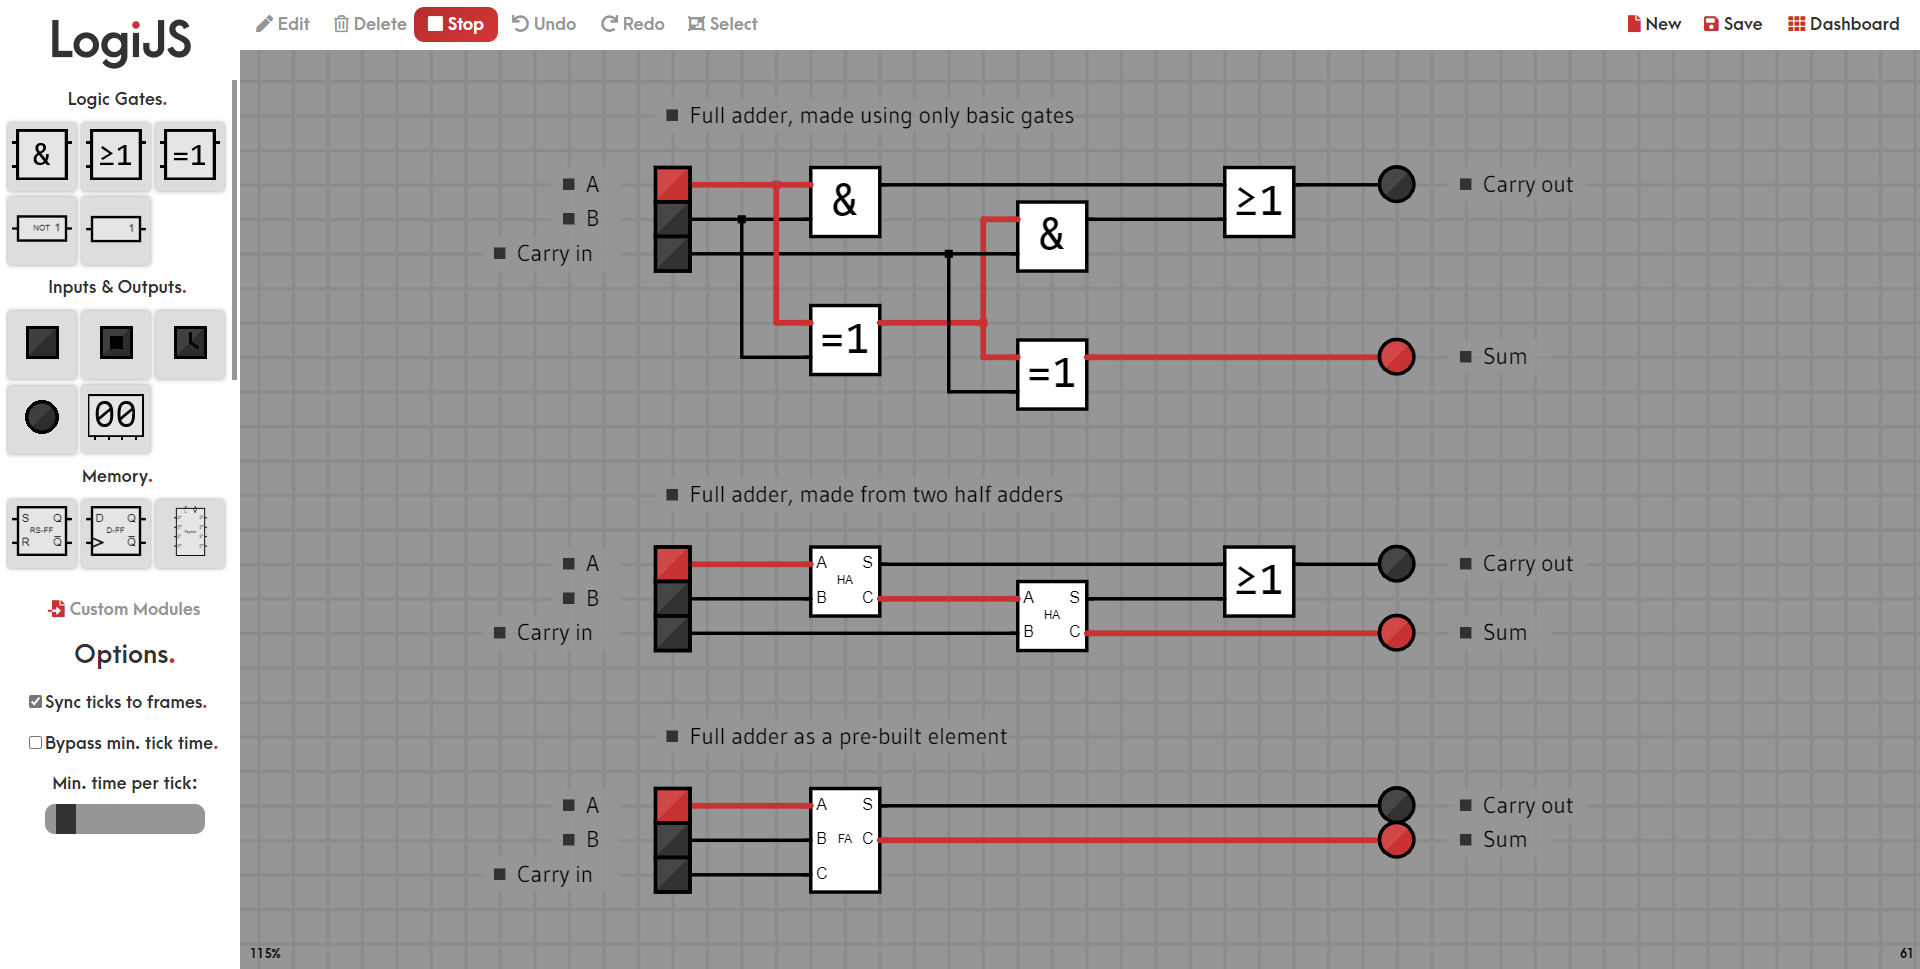
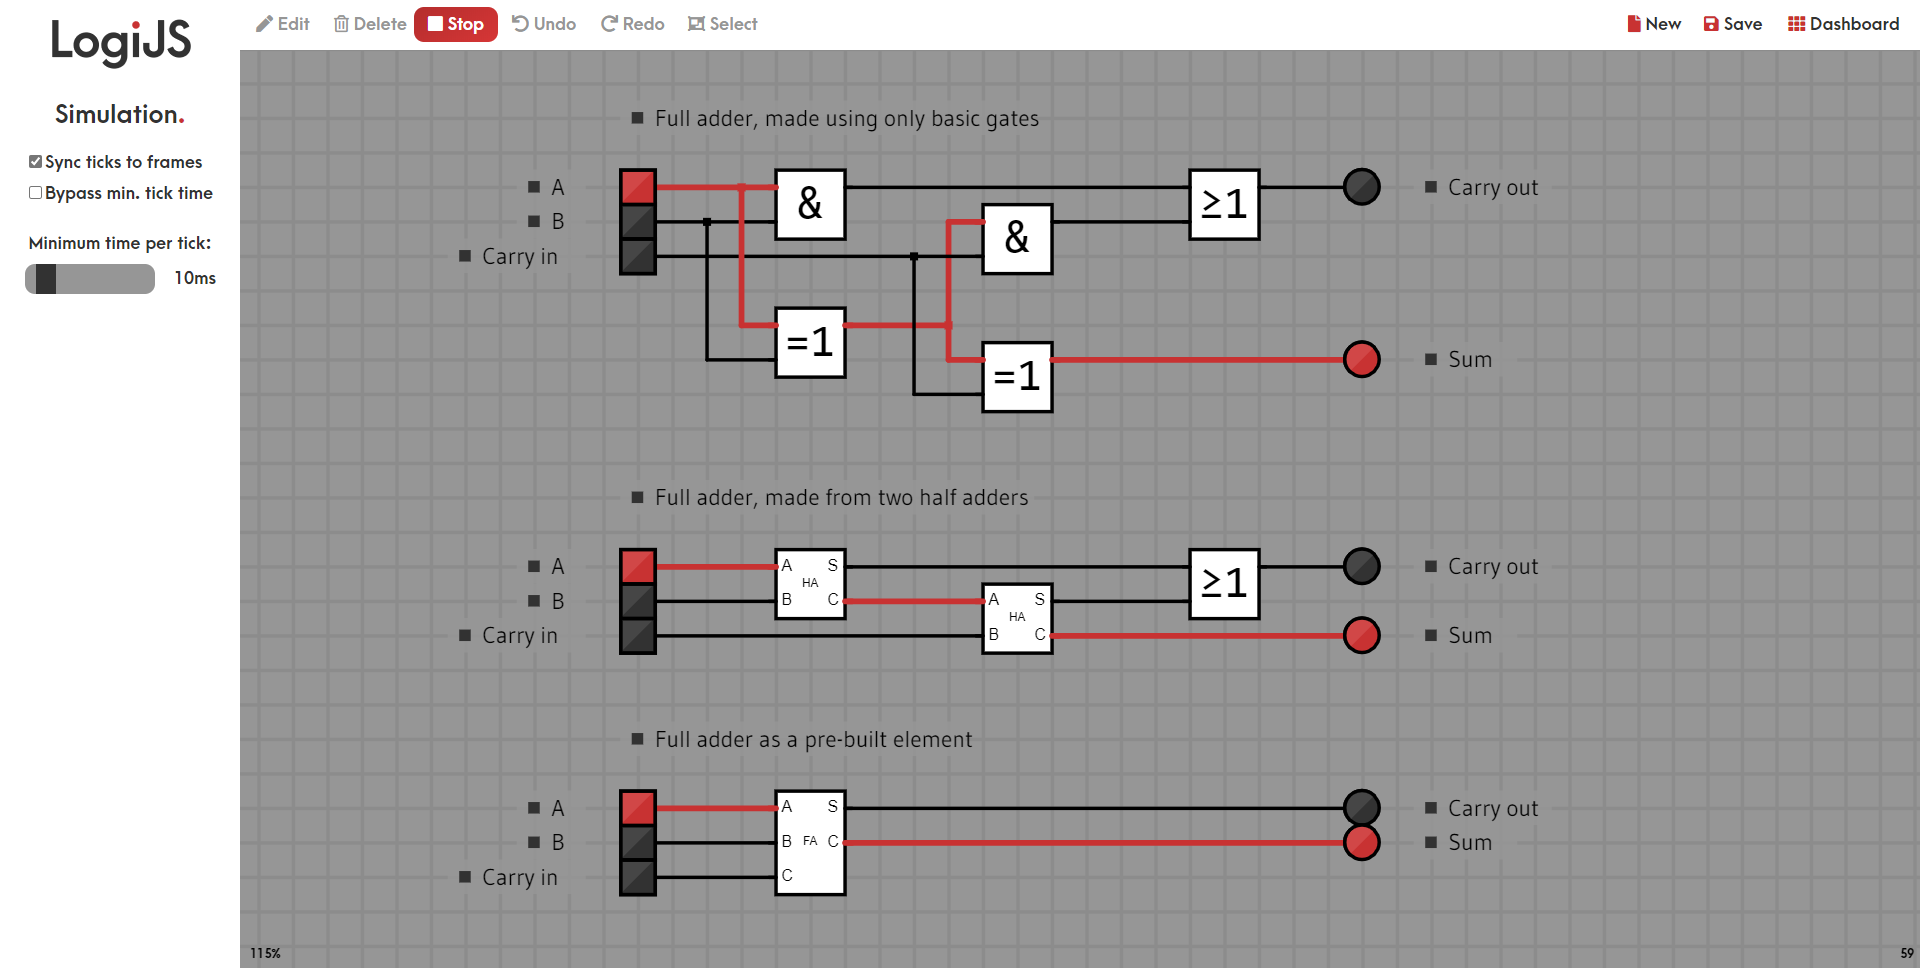
Simulation menu overhaul

diff --git a/javascripts/DOMdefinitions.js b/javascripts/DOMdefinitions.js
@@ -550,6 +550,14 @@ function createCustomImportButton() {
 }
 
 function createElementOptions() {
+    // Adds text 'Simulation'
+    labelSimulation = createP('Simulation<span style="color: #c83232">.</span>');
+    labelSimulation.elt.className = 'label simLabel';
+    labelSimulation.elt.style.fontSize = '25px';
+    labelSimulation.style('text-align', 'center');
+    labelSimulation.parent(leftSideContainer);
+    labelSimulation.hide();
+
     // Adds text 'Options'
     labelOptions = createP('Options<span style="color: #c83232">.</span>');
     labelOptions.elt.className = 'label';
@@ -688,22 +696,27 @@ function createElementOptions() {
     });
 
     sfcheckbox = createCheckbox('Sync ticks to frames', true);
-    document.getElementsByTagName('label')[0].innerHTML = 'Sync ticks to frames<span style="color: #c83232">.</span>';
+    //document.getElementsByTagName('label')[0].innerHTML = 'Sync ticks to frames<span style="color: #c83232">.</span>';
     sfcheckbox.hide();
     sfcheckbox.changed(function () {
         syncFramerate = sfcheckbox.checked();
         if (!sfcheckbox.checked() && simRunning) {
             updater = setInterval(updateTick, 1);
-            tickTimeLabel.hide();
-            tickTimeSlider.hide();
-            bpTickTimeCB.hide();
+            tickTimeLabel.elt.className = 'label disabledLabel';
+            tickTimeMsLabel.elt.className = 'label msLabel disabledLabel';
+            tickTimeSlider.elt.disabled = true;
+            document.getElementsByClassName('tickTimeCB')[0].disabled = true;
+            document.getElementsByClassName('tickTimeCB')[1].className = 'tickTimeCB disabledLabel';
         } else {
             clearInterval(updater);
             if (tickTime > 0) {
-                tickTimeLabel.show();
-                tickTimeSlider.show();
+                tickTimeLabel.elt.className = 'label';
+                tickTimeMsLabel.elt.className = 'label msLabel';
+                tickTimeSlider.elt.disabled = false;
             }
             bpTickTimeCB.show();
+            document.getElementsByClassName('tickTimeCB')[0].disabled = false;
+            document.getElementsByClassName('tickTimeCB')[1].className = 'tickTimeCB';
         }
     });
     sfcheckbox.elt.className = 'checkbox';
@@ -714,20 +727,25 @@ function createElementOptions() {
     sfcheckbox.mouseOut(function () {
         setHelpText('');
     });
-    
+
     bpTickTimeCB = createCheckbox('Bypass min. tick time', true);
-    document.getElementsByTagName('label')[1].innerHTML = 'Bypass min. tick time<span style="color: #c83232">.</span>';
+    //document.getElementsByTagName('label')[1].innerHTML = 'Bypass min. tick time<span style="color: #c83232">.</span>';
+    document.getElementsByTagName('input')[1].className = 'tickTimeCB';
+    document.getElementsByTagName('label')[1].className = 'tickTimeCB';
     bpTickTimeCB.hide();
     bpTickTimeCB.checked(false);
     bpTickTimeCB.changed(function () {
         if (bpTickTimeCB.checked()) {
             tickTime = 0;
-            tickTimeLabel.hide();
-            tickTimeSlider.hide();
+            tickTimeLabel.elt.className = 'label disabledLabel';
+            tickTimeMsLabel.elt.className = 'label msLabel disabledLabel';
+            tickTimeSlider.elt.disabled = true;
+
         } else {
             newTickTime();
-            tickTimeLabel.show();
-            tickTimeSlider.show();
+            tickTimeLabel.elt.className = 'label';
+            tickTimeMsLabel.elt.className = 'label msLabel';
+            tickTimeSlider.elt.disabled = false;
         }
     });
     bpTickTimeCB.elt.className = 'checkbox';
@@ -739,13 +757,12 @@ function createElementOptions() {
         setHelpText('');
     });
 
-    // Adds text 'Input width'
-    tickTimeLabel = createP('Min. time per tick:');
+    tickTimeLabel = createP('Minimum time per tick:');
     tickTimeLabel.hide();
     tickTimeLabel.elt.className = 'label';
     tickTimeLabel.parent(leftSideContainer);
 
-    tickTimeSlider = createSlider(2, 100, 10, 1);
+    tickTimeSlider = createSlider(0, 100, 10, 1);
     tickTimeSlider.hide();
     tickTimeSlider.input(function () {
         newTickTime();
@@ -758,6 +775,11 @@ function createElementOptions() {
     tickTimeSlider.mouseOut(function () {
         setHelpText('');
     });
+
+    tickTimeMsLabel = createP('10ms');
+    tickTimeMsLabel.hide();
+    tickTimeMsLabel.elt.className = 'label msLabel';
+    tickTimeMsLabel.parent(leftSideContainer);
 }
 
 function createHelpLabel() {

diff --git a/javascripts/sketch.js b/javascripts/sketch.js
@@ -249,7 +249,7 @@ let leftSideButtons;
 
 let sketchNameInput, moduleNameInput, saveButton, saveDialogText;
 let helpLabel, saveDialogButton, dashboardButton, cancelButton, descInput, newButton;
-let deleteButton, simButton, labelBasic, labelAdvanced, labelOptions,
+let deleteButton, simButton, labelBasic, labelAdvanced, labelOptions, labelSimulation,
     andButton, orButton, xorButton, bufferButton, notButton, inputButton, buttonButton, clockButton,
     outputButton, clockspeedSlider, undoButton, redoButton, modifierModeButton, labelButton, segDisplayButton;
 
@@ -261,7 +261,7 @@ let updater, sfcheckbox;
 let gateInputSelect, labelGateInputs, directionSelect, bitSelect, labelDirection, labelBits, counterBitSelect, labelOutputWidth,
     decoderBitSelect, labelInputWidth, multiplexerBitSelect;
 
-let tickTimeSlider, tickTimeLabel, bpTickTimeCB;
+let tickTimeSlider, tickTimeLabel, bpTickTimeCB, tickTimeMsLabel;
 
 /*
     This is the socket element used for socket communication with the server
@@ -530,6 +530,7 @@ function hideAllOptions() {
     multiplexerBitSelect.hide();
     labelInputWidth.hide();
     labelOptions.hide();
+    labelSimulation.hide();
 }
 
 /*
@@ -805,7 +806,7 @@ function newClockspeed() {
 
 function newTickTime() {
     tickTime = tickTimeSlider.value();
-    console.log(tickTime);
+    tickTimeMsLabel.elt.innerHTML = tickTimeSlider.value() + 'ms';
 }
 
 /* 
@@ -1452,6 +1453,8 @@ function startSimulation() {
     setActive(simButton, true);
     configureButtons('simulation');
     hideAllOptions();
+    leftSideButtons.hide();
+    customButton.hide();
 
     // Parse all wire groups and attach the components
     parseGroups();
@@ -1469,19 +1472,15 @@ function startSimulation() {
         customs[i].setSimRunning(true);
     }
 
-    // Show the checkbox
-    labelOptions.show();
+    labelSimulation.show();
+
+    // Show the frame sync checkbox
     sfcheckbox.show();
 
-    // Show the tick time slider
-    if (syncFramerate && tickTime > 0) {
-        tickTimeLabel.show();
-        tickTimeSlider.show();
-    }
-
-    if (syncFramerate) {
-        bpTickTimeCB.show();
-    }
+    tickTimeLabel.show();
+    tickTimeMsLabel.show();
+    tickTimeSlider.show();
+    bpTickTimeCB.show();
 
     // Start the simulation and exit the modifier mode
     simRunning = true;
@@ -1500,14 +1499,18 @@ function endSimulation() {
     configureButtons('edit');
 
     // Hide the checkbox
-    labelOptions.hide();
+    labelSimulation.hide();
     sfcheckbox.hide();
 
     // Hide the tick time slider
     tickTimeLabel.hide();
+    tickTimeMsLabel.hide();
     tickTimeSlider.hide();
 
     bpTickTimeCB.hide();
+
+    leftSideButtons.show();
+    customButton.show();
 
     groups = []; // Reset the groups, as they are regenerated when starting again
     for (const elem of gates) {

diff --git a/webapp_style.css b/webapp_style.css
@@ -194,6 +194,26 @@ body {
     font-size: 17px;
 }
 
+.scrollContainerLeft > .label {
+    margin: 30px 0 10px 0;
+    width: 230px;
+}
+
+.scrollContainerLeft > .simLabel {
+    margin: 20px 0;
+}
+
+.scrollContainerLeft > .msLabel {
+    float: right;
+    width: 60px;
+    margin: 0 20px 0 0;
+    line-height: 30px;
+}
+
+.disabledLabel {
+    color: #969696;
+}
+
 .checkbox {
     -ms-user-select: none;
     -webkit-user-select: none;
@@ -203,6 +223,10 @@ body {
     font-family: ArcaMajora3, 'Open Sans', sans-serif;
     font-size: 17px;
     margin: 20px 0 20px 20px;
+}
+
+.scrollContainerLeft > .checkbox {
+    margin: 10px 20px;
 }
 
 .buttonLeft{
@@ -438,6 +462,7 @@ body {
     width: 20px;
     height: 30px;
     border-radius: 0;
+    border: none;
     background: #323232;
     cursor: pointer;
 }
@@ -446,18 +471,32 @@ body {
     width: 20px;
     height: 30px;
     border-radius: 0;
+    border: none;
     background: #323232;
     cursor: pointer;
 }
 
 .sliderLeft {
-	display: inline-block;
+    float: left;
     -ms-user-select: none;
     -webkit-user-select: none;
     -moz-user-select: -moz-none;
     -khtml-user-select: none;
     user-select: none;
-    margin: 0 auto;
+    margin: 0 0 0 20px;
+    width: 130px;
+}
+
+.sliderLeft:disabled {
+    background: #ddd; 
+}
+
+.sliderLeft:disabled::-webkit-slider-thumb {
+    background: #969696;
+}
+
+.sliderLeft:disabled::-moz-range-thumb {
+    background: #969696;
 }
 
 input[type=range]::-ms-tooltip {
